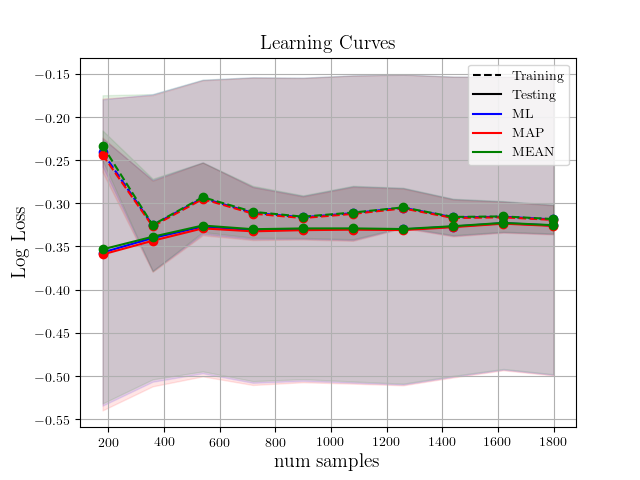
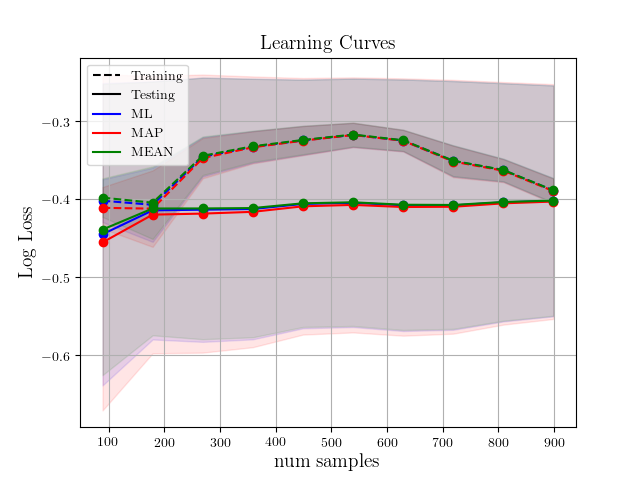
Added some learning curve plots

diff --git a/DA.py b/DA.py
@@ -1,6 +1,7 @@
 import numpy as np
 
 from scipy import stats
+from sklearn.base import BaseEstimator, ClassifierMixin
 import logging
 
 # Available fitting methods
@@ -10,10 +11,11 @@ BAYES_MEAN = "Mean"
 BAYES_FULL = "Bayes"
 
 
-class DiscriminantAnalysis:
-    def __init__(self, do_logging=False):
+class DiscriminantAnalysis(BaseEstimator, ClassifierMixin):
+    def __init__(self, do_logging=False, fit_method=MAXIMUM_LIKELIHOOD):
         self._fitted = False
         self.do_logging = do_logging
+        self.fit_method = fit_method
         if do_logging:
             self.logger = logging.getLogger(__name__)
             self.logger.setLevel(logging.DEBUG)
@@ -23,7 +25,8 @@ class DiscriminantAnalysis:
             self.logger.addHandler(fh)
         return
 
-    def fit(self, X, y, method=MAXIMUM_LIKELIHOOD):
+    def fit(self, X, y, method=None,
+            alpha=1.0, nu=2, k=1./100):
         """
         params:
           X (np.array N x p): The data matrix
@@ -33,6 +36,13 @@ class DiscriminantAnalysis:
             -"MAP": The Bayesian MAP estimate with conjugate priors
             -"Mean": Use Bayesian posterior mean point estimates
             -"Bayes": Fit a fully Bayesian model with conjugate priors
+          alpha (float): Prior value for Dir(alpha), ignored for ML
+          nu (float): Covariance pseudo will be p + nu, ignored for ML
+          k (float): Mean pseudo data, ignored for ML.
+
+        Increasing alpha, nu, or k will increase the amount of regularization,
+        or in other words, add more weight to the prior belief.  We use the
+        data dependent priors mean(X) and diag(cov(X)) for each prior.
         """
         N = X.shape[0]  # Number of samples
         p = X.shape[1]  # Data dimension
@@ -63,15 +73,25 @@ class DiscriminantAnalysis:
         X = {c: np.vstack([X[i, :] for i in range(N) if y[i] == c])
              for c in C}
 
+        if method is None:
+            method = self.fit_method
+
         if method == MAXIMUM_LIKELIHOOD:
             self._fit_ML(X, y)
         else:  # Bayesian method
             # Specify priors
-            self.alpha = 1.0
-            self.m = {c: np.mean(X[c]) for c in self.C}
-            self.S = {c: np.diag(np.std(X[c], axis=0)) for c in self.C}
-            self.nu = p + 2  # Covariance pseudo-data
-            self.k = 1. / 100  # Mean pseudo-data
+            self.m = {c: np.mean(
+                np.vstack([np.mean(X[c], axis=0) for c in self.C]), axis=0)
+                      for c in self.C}
+            self.S = {c: np.diag(
+                np.mean(np.vstack([np.std(X[c], axis=0)]), axis=0))
+                      for c in self.C}
+
+            # TODO: I should check that these are numeric values?
+            self.alpha = alpha  # Dir(alpha) prior on pi
+            self.nu = p + nu  # Covariance pseudo-data
+            self.k = k  # Mean pseudo-data
+
             if method == BAYES_MAP:
                 self._fit_MAP(X, y)
             elif method == BAYES_MEAN:
@@ -90,39 +110,80 @@ class DiscriminantAnalysis:
             self.logger.debug("pi = %s" % self.pi)
             self.logger.debug("mu = %s" % self.mu)
             self.logger.debug("Sigma = %s" % self.Sigma)
-        return
+        return self
 
-    def density(self, X):
+    def predict_proba(self, X, ret_array=True):
         """
         Compute the predicted probability of the data in X for each class.
+
+        params:
+          X (np.array n x p): Points at which to evaluate the density
+          ret_array (bool): Whether to return a {cls: prob} dictionary (false)
+            or an n x num_catagories array.  In the latter case, the
+            ordering will be given by the order of self.C
         """
         if not self._fitted:
             raise ValueError("Must fit the model first!")
         if self._fitted != BAYES_FULL:  # Gaussian posterior
-            prob = lambda c: self.pi[c] *\
-                   stats.multivariate_normal.pdf(X, mean=self.mu[c],
-                                                 cov=self.Sigma[c])
+            def prob(c):
+                try:
+                    return self.pi[c] *\
+                        stats.multivariate_normal.pdf(X, mean=self.mu[c],
+                                                      cov=self.Sigma[c])
+                except np.linalg.LinAlgError as e:  # Singular matrix
+                    if self.do_logging:
+                        self.loger.error("LinAlgError on normal.pdf "
+                                         "mean = %s, cov = %s"
+                                         % (self.mu[c], self.Sigma[c]))
+                    raise e
+
         else:  # T-distributed posterior
             # scipy.stats has no multivariate t distribution
             # I can roll my own but want to get the other methods
             # ironed out first.
             raise NotImplementedError
 
-        predictions = {}
+        density = {}
         normalizer = np.zeros(X.shape[0])
         for c in self.C:
-            P = prob(c)
+            try:
+                P = prob(c)
+            except np.linalg.LinAlgError:  # Singular matrix
+                P = np.nan * np.empty(X.shape[0])
+                if self.do_logging:
+                    self.logger.error("Caught LinAlgError when evaluating "
+                                      "probability, attempting to continue")
+                density[c] = P
+                continue  # Skip updating the normalizer
+
+            density[c] = P
+            normalizer += P
+
             if self.do_logging:
                 self.logger.debug("Unnormalized density for class %s: %s" %
                                   (c, P))
-            predictions[c] = P
-            normalizer += P
 
         for c in self.C:
-            predictions[c] = predictions[c] / normalizer
+            # Could raise a zerodivision runtime warning
+            density[c] = density[c] / normalizer
 
         if self.do_logging:
             self.logger.debug("density normalizer: %s" % normalizer)
+        if ret_array:
+            density = np.vstack(density[c] for c in density.keys()).T
+        return density
+
+    # Augment this to consider a loss function?
+    def predict(self, X):
+        """
+        Predicts the class label of each point in X by simply picking the
+        most probable label.
+
+        params:
+          X (np.array N x p): The data to label
+        """
+        D = self.predict_proba(X)
+        predictions = self.C[np.argmax([D[c] for c in self.C], axis=0)]
         return predictions
 
     def _fit_ML(self, X, y=None):

diff --git a/test.py b/test.py
@@ -197,9 +197,9 @@ class testDA_ll(unittest.TestCase):
         plt.show()
         return
 
-    def test000(self):
+    def test001(self):
         np.random.seed(0)
-        N = 2000
+        N = 1000
         p = 2
         n_classes = 3
         X, y = datasets.make_classification(n_samples=N, n_features=p,
@@ -210,9 +210,9 @@ class testDA_ll(unittest.TestCase):
                                   "learning_curves001.png")
         return
 
-    def test001(self):
+    def test002(self):
         np.random.seed(0)
-        N = 2000
+        N = 2500
         p = 10
         n_classes = 3
         X, y = datasets.make_classification(n_samples=N, n_features=p,
